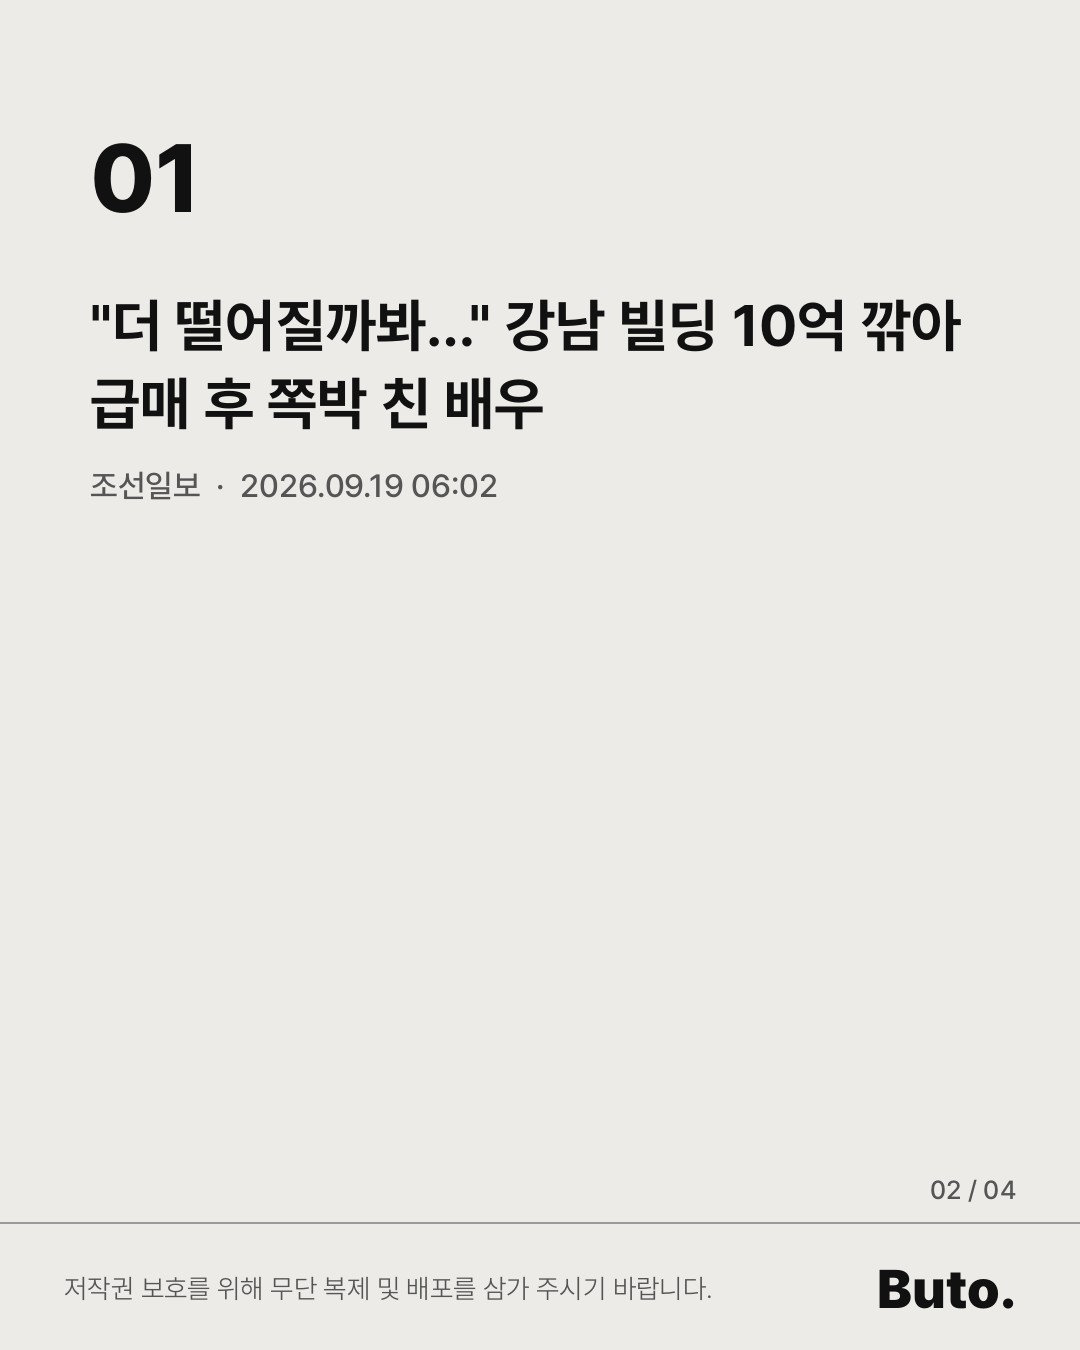
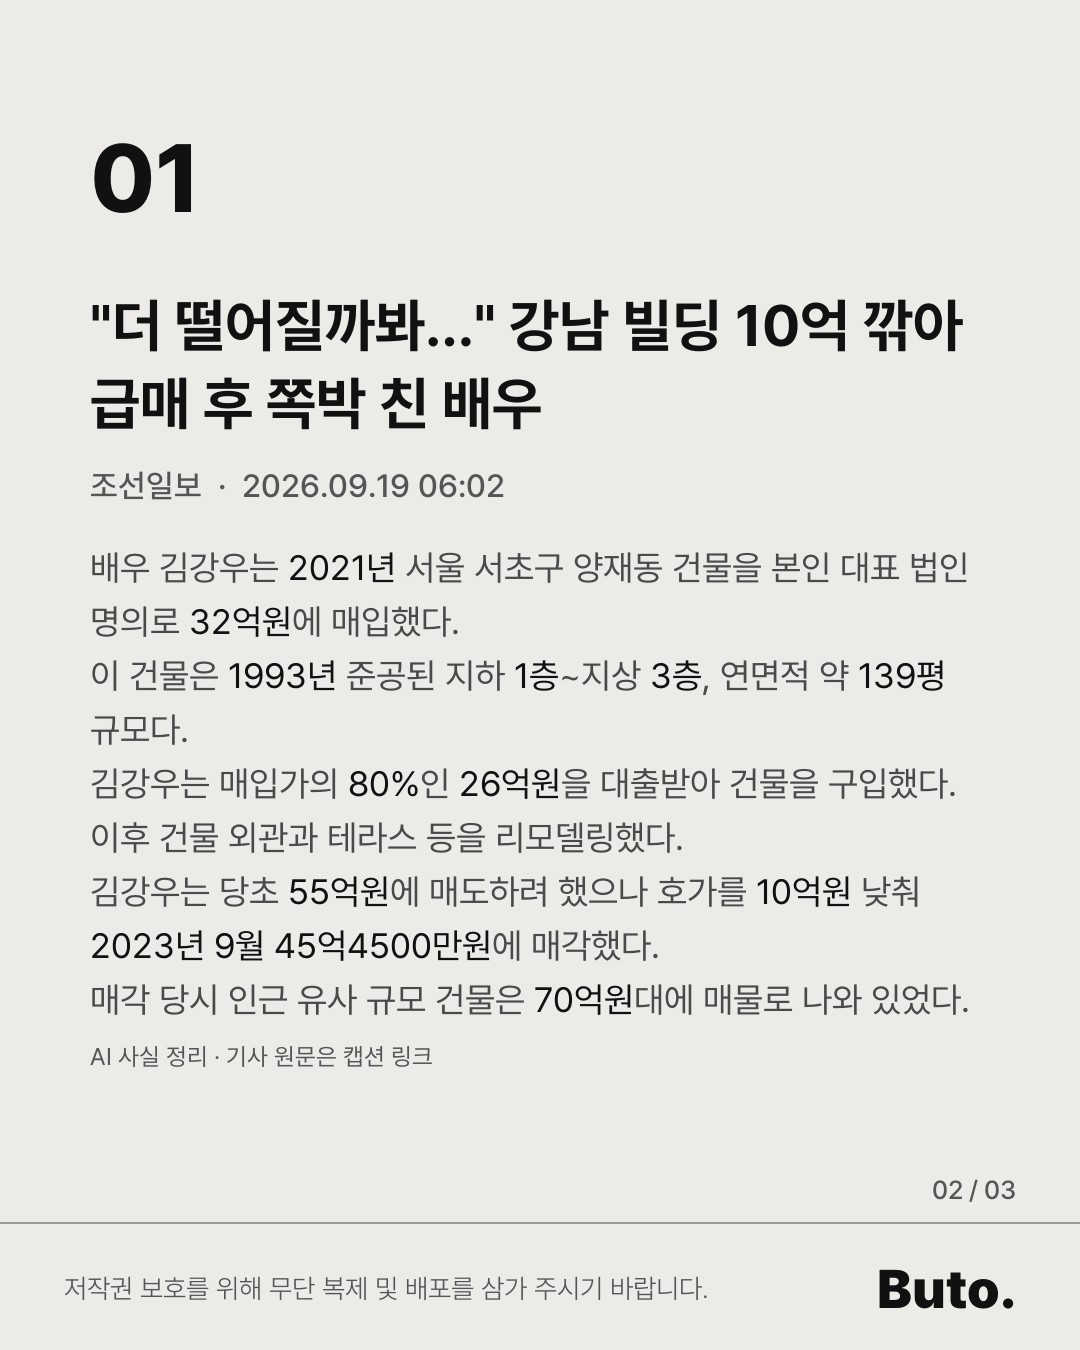
스타 부동산 AI 사실 정리(Claude 구독, 추가 비용 없음) + 한도 오탐 수정
- 한도 검사는 실패한 응답에서만(정상 답 글자 검사로 잘못 멈추던 문제)
- 기사 문장 겹침 기준 25자, 비슷하면 한 번 다시 쓰기
- 범죄·사건 기사 세트 5에서 제외, 예약 작업 07:40·12:00 추가
- 자체 검사 6개 추가(85/85)

diff --git a/engine/star_summary.py b/engine/star_summary.py
@@ -1,0 +1,189 @@
+"""스타 부동산 기사 → 사실만 새 문장으로 정리(노트북의 claude CLI, 사용자 Claude 구독으로만).
+
+비용 원칙(사용자 지시 2026-09-19: 추가 비용 절대 금지):
+- API 열쇠를 쓰지 않는다. 자식 프로세스 환경에서 ANTHROPIC_API_KEY 등을 지운다.
+- 실행 전 확인: `claude auth status` 가 claude.ai 구독 로그인이고, ~/.claude.json 의
+  hasExtraUsageEnabled(한도 초과 시 유료 추가 사용)가 꺼져 있을 때만 동작. 아니면 멈추고 알린다.
+- 구독 사용 한도에 걸리면 그날은 멈춘다(재시도 없음).
+
+저작권 원칙: 기사 문장을 옮기지 않는다. 사실(누가·어디·얼마·언제)만 새 문장으로.
+검사: ① 기사와 16자 이상 연속으로 같은 부분이 있으면 버림 ② 기사에 없는 숫자가 있으면 버림.
+"""
+from __future__ import annotations
+
+import json
+import os
+import re
+import subprocess
+
+import httpx
+from bs4 import BeautifulSoup
+
+from .common import USER_AGENT, log, squash
+
+ARTICLE_SELECTORS = ["[itemprop=articleBody]", "#articleBody", "#article-view-content-div", "#newsct_article",
+                     "#dic_area", ".article_body", ".article-body", "#articletxt", ".news_cnt_detail_wrap",
+                     "#article_body", ".view_con", "article"]
+MAX_CALLS_PER_RUN = 8
+STRIP_ENV = ("ANTHROPIC_API_KEY", "ANTHROPIC_AUTH_TOKEN", "CLAUDE_CODE_USE_BEDROCK", "CLAUDE_CODE_USE_VERTEX")
+
+
+class Stop(RuntimeError):
+    """오늘은 AI 정리를 더 하지 않음(비용·한도 이유). 사용자에게 알린다."""
+
+
+def _env() -> dict:
+    env = dict(os.environ)
+    for k in STRIP_ENV:
+        env.pop(k, None)
+    env["PYTHONIOENCODING"] = "utf-8"
+    return env
+
+
+def cost_guard() -> None:
+    """구독 로그인·추가 과금 꺼짐을 확인. 문제면 Stop."""
+    try:
+        r = subprocess.run("claude auth status", shell=True, capture_output=True, text=True,
+                           encoding="utf-8", env=_env(), timeout=60)
+        st = json.loads(r.stdout or "{}")
+    except Exception as e:
+        raise Stop(f"claude 로그인 상태를 확인하지 못했어요({type(e).__name__})")
+    if not st.get("loggedIn") or st.get("authMethod") != "claude.ai":
+        raise Stop("claude 가 Claude 구독(claude.ai)으로 로그인돼 있지 않아요 — 요금이 생길 수 있어 멈췄어요")
+    try:
+        cfg = json.load(open(os.path.expanduser("~/.claude.json"), encoding="utf-8"))
+        oa = cfg.get("oauthAccount") or {}
+        if oa.get("hasExtraUsageEnabled"):
+            raise Stop("Claude 구독에 '추가 사용(유료)'이 켜져 있어 멈췄어요 — 한도를 넘으면 요금이 나갈 수 있어요")
+        if cfg.get("primaryApiKey"):
+            raise Stop("claude 에 API 열쇠가 저장돼 있어 멈췄어요 — 쓴 만큼 요금이 나갈 수 있어요")
+    except Stop:
+        raise
+    except Exception:
+        raise Stop("claude 설정 파일을 확인하지 못해 멈췄어요")
+
+
+def article_text(url: str) -> str:
+    """기사 페이지에서 본문 글자만(요약 재료로만 쓰고 카드·캡션에는 넣지 않음)."""
+    r = httpx.get(url, headers={"User-Agent": USER_AGENT}, timeout=25, follow_redirects=True)
+    r.raise_for_status()
+    s = BeautifulSoup(r.text, "html.parser")
+    for tag in s.select("script, style, figure, figcaption, iframe, .reporter, .copyright"):
+        tag.decompose()
+    best = ""
+    for sel in ARTICLE_SELECTORS:
+        el = s.select_one(sel)
+        if el:
+            t = re.sub(r"\s+", " ", el.get_text(" ", strip=True))
+            if len(t) > len(best):
+                best = t
+        if len(best) > 400:
+            break
+    if len(best) < 200:
+        ps = " ".join(p.get_text(" ", strip=True) for p in s.select("p"))
+        best = re.sub(r"\s+", " ", ps)
+    return best[:6000]
+
+
+PROMPT = """너는 부동산 뉴스 카드의 사실 정리 담당이다. 아래 기사에서 **사실만** 뽑아 한국어 기사체 문장 4~7개로 새로 써라.
+규칙:
+- 기사 문장을 그대로 옮기지 말고 새 문장으로 쓴다(8어절 이상 똑같이 쓰지 말 것).
+- 누가(실명은 기사에 나온 그대로), 어디(구·동·건물 종류), 얼마(금액), 언제(연·월), 무엇을(매입/매각/보유) 중심.
+- 기사에 없는 숫자·추측·평가·감정 표현 금지. 시세차익 등 계산하지 말고 기사에 있는 숫자만.
+- 연예인 사생활·가족 이야기는 넣지 말고 부동산 거래 사실만.
+- 한 문장은 60자 안쪽. "~했다." "~이다." 체.
+출력은 JSON 한 줄만: {"lines": ["문장1", "문장2", ...]}
+
+기사 제목: {title}
+기사 본문:
+{body}
+"""
+
+
+def _run_claude(prompt: str) -> str:
+    r = subprocess.run("claude -p --output-format json --tools \"\" --no-session-persistence",
+                       input=prompt, shell=True, capture_output=True, text=True, encoding="utf-8",
+                       env=_env(), timeout=240)
+    LIMIT_WORDS = ("usage limit", "rate limit", "limit reached", "5-hour limit", "weekly limit", "credit", "billing")
+    try:
+        body = json.loads(r.stdout or "")
+    except ValueError:
+        body = None
+    if body is None or r.returncode != 0 or body.get("is_error"):
+        # 실패했을 때만 이유를 본다(정상 답의 글자는 검사하지 않음 - 잘못 멈추는 것 방지)
+        why = ((r.stderr or "") + " " + (str(body.get("result", "")) if body else (r.stdout or ""))).lower()
+        if any(w in why for w in LIMIT_WORDS):
+            raise Stop("Claude 구독 사용량 한도(또는 결제 관련 안내)에 걸려 오늘 AI 정리는 멈췄어요")
+        if body is None:
+            raise RuntimeError("claude 응답을 읽지 못했어요")
+        raise RuntimeError(f"claude 오류: {str(body.get('result', ''))[:120]}")
+    return str(body.get("result", ""))
+
+
+def _numbers(s: str) -> set[str]:
+    return {re.sub(r"[,\s]", "", n) for n in re.findall(r"\d[\d,.]*", s)}
+
+
+OVERLAP = 25
+
+
+def check(lines: list[str], article: str) -> str | None:
+    """문제 있으면 이유, 없으면 None."""
+    if not (3 <= len(lines) <= 8):
+        return "문장 수가 맞지 않음"
+    src = squash(article)
+    for ln in lines:
+        s = squash(ln)
+        # 이름·숫자가 들어간 사실 표현은 짧게 겹칠 수 있음. 25자 이상 똑같으면 기사 문장 복사로 본다
+        for i in range(0, max(0, len(s) - 24)):
+            if s[i:i + OVERLAP] in src:
+                return "기사 문장과 너무 비슷함"
+    art_nums = _numbers(article)
+    for ln in lines:
+        for n in _numbers(ln):
+            if n and n not in art_nums and n.rstrip(".") not in art_nums:
+                return f"기사에 없는 숫자({n})"
+    return None
+
+
+def summarize(item: dict) -> list[str]:
+    body = article_text(item["link"])
+    if len(body) < 150:
+        raise RuntimeError("기사 본문을 읽지 못함")
+    prompt = PROMPT.replace("{title}", item["title"]).replace("{body}", body)
+    why = None
+    for attempt in range(2):                      # 기사 문장과 비슷하면 한 번만 다시 쓰게 함
+        if attempt:
+            prompt += ("\n\n[다시 쓰기] 앞의 답이 기사 문장을 너무 많이 그대로 썼습니다. "
+                       "사실(이름·날짜·금액)은 그대로 두고 문장 표현은 모두 새로 바꿔 쓰세요.")
+        out = _run_claude(prompt)
+        m = re.search(r"\{.*\}", out, re.S)
+        lines = json.loads(m.group(0)).get("lines", []) if m else []
+        lines = [re.sub(r"\s+", " ", ln).strip() for ln in lines if str(ln).strip()]
+        why = check(lines, body)
+        if not why:
+            return lines
+        if "비슷" not in why:
+            break
+    raise RuntimeError(why)
+
+
+def fill(items: list[dict]) -> tuple[list[dict], list[str]]:
+    """아직 정리 안 된 기사에 summary 채우기. 반환: (새 목록, 알림 문장들)."""
+    cost_guard()                                   # 비용 조건이 안 맞으면 Stop
+    notes, calls = [], 0
+    out = []
+    for a in items:
+        a = dict(a)
+        if not a.get("summary") and calls < MAX_CALLS_PER_RUN:
+            calls += 1
+            try:
+                a["summary"] = summarize(a)
+                a["summary_note"] = "AI 사실 정리"
+            except Stop:
+                raise
+            except Exception as e:
+                notes.append(f"'{a['title'][:20]}…' 정리 안 함: {e}")
+                log(f"사실 정리 실패: {a['title'][:30]} ({e})")
+        out.append(a)
+    return out, notes

diff --git a/engine/make.py b/engine/make.py
@@ -297,11 +297,19 @@ def make_news(day: str, settings: dict) -> dict:
     return _save_run(day, "news", messages, news_excluded=excluded)
 
 
+STAR_COVER = {"tag": "스타", "lines": ("스타", "부동산 소식"), "count_label": "소식 {n}건",
+              "title": "스타 부동산 소식", "caption_title": "스타 부동산 소식", "hashtag": "연예인부동산",
+              "note": "부동산 거래 사실만 새로 정리했어요. 기사 원문은 캡션의 링크에서 확인하세요."}
+
+
 def make_star(day: str, settings: dict, cid: str, secret: str) -> list[dict]:
-    """연예인 부동산 소식(세트 5). 기사 제목·언론사·날짜·링크만."""
+    """연예인 부동산 소식(세트 5). 기사 제목·언론사·날짜·링크(+노트북이 채우는 사실 정리)."""
     h = history.load()
     if history.find_post(h, day, 5, "실제"):
         return [{"level": "warn", "text": "오늘 연예인 부동산 세트는 이미 올려서 새로 만들지 않았어요"}]
+    old = read_json(docs_dir() / day / "set-5" / "set.json", None)
+    if old and any(a.get("summary") for a in old.get("news_items") or []):
+        return [{"level": "ok", "text": "사실 정리가 된 스타 부동산 세트를 그대로 두었어요"}]
     try:
         items, _ = sources_news.fetch_star(cid, secret, settings, now_kst())
     except Exception as e:
@@ -311,11 +319,40 @@ def make_star(day: str, settings: dict, cid: str, secret: str) -> list[dict]:
     items = [a for a in items if a["link"] not in used]
     if not items:
         return [{"level": "warn", "text": "최근 3일 새 연예인 부동산 소식이 없어요"}]
-    cover = {"tag": "스타", "lines": ("스타", "부동산 소식"), "count_label": "소식 {n}건",
-             "title": "스타 부동산 소식", "caption_title": "스타 부동산 소식", "hashtag": "연예인부동산",
-             "note": "기사 제목과 언론사만 소개해요. 자세한 내용은 캡션의 링크에서 확인하세요."}
-    meta = build.build_news(items, day, 5, settings, kind="star", cover=cover)
+    meta = build.build_news(items, day, 5, settings, kind="star", cover=STAR_COVER)
     return [{"level": "ok", "text": f"스타 부동산 카드 {len(meta['cards'])}장을 만들었어요(기사 {len(items)}건)"}]
+
+
+def make_star_summaries(day: str, settings: dict) -> dict:
+    """노트북: 스타 부동산 기사에 사실 정리(claude 구독, 추가 비용 없음)를 채우고 카드를 다시 그린다."""
+    from . import star_summary
+    messages: list[dict] = []
+    meta = read_json(docs_dir() / day / "set-5" / "set.json", None)
+    if not meta or not meta.get("news_items"):
+        return _save_run(day, "star", messages)
+    if history.find_post(history.load(), day, 5, "실제"):
+        return _save_run(day, "star", messages)
+    from .sources_news import STAR_EXCLUDE
+    kept = [a for a in meta["news_items"] if not any(w in a.get("title", "") for w in STAR_EXCLUDE)]
+    if len(kept) != len(meta["news_items"]):
+        messages.append({"level": "warn", "text": f"범죄·사건 기사 {len(meta['news_items']) - len(kept)}건을 스타 부동산 세트에서 뺐어요"})
+        meta["news_items"] = kept
+        if not kept:
+            return _save_run(day, "star", messages)
+    todo = [a for a in meta["news_items"] if not a.get("summary")]
+    if not todo:
+        return _save_run(day, "star", messages)
+    try:
+        items, notes = star_summary.fill(meta["news_items"])
+    except star_summary.Stop as e:
+        messages.append({"level": "bad", "text": f"AI 사실 정리를 멈췄어요: {e} (추가 비용이 생기지 않게 하려는 조치예요)"})
+        return _save_run(day, "star", messages)
+    done = sum(1 for a in items if a.get("summary"))
+    build.build_news(items, day, 5, settings, meta.get("notes") or [], kind="star", cover=STAR_COVER)
+    messages.append({"level": "ok", "text": f"스타 부동산 기사 {done}건에 사실 정리를 넣었어요(Claude 구독 사용, 추가 비용 없음)"})
+    for n in notes:
+        messages.append({"level": "warn", "text": n})
+    return _save_run(day, "star", messages)
 
 
 def refresh_news_gov(day: str, settings: dict) -> bool:

diff --git a/scripts/laptop_daily.py b/scripts/laptop_daily.py
@@ -108,19 +108,30 @@ def main() -> int:
         log(f"GitHub에서 최신 내용을 받지 못했어요: {r.stderr.strip()[:200]}")
 
     run_file = docs_dir() / day / "run-gov.json"
+    skip_local = False
     if not a.force and not a.url and run_file.exists():
         prev = read_json(run_file, {})
         if not any(m.get("level") == "bad" for m in prev.get("messages", [])):
             log("오늘 보도자료 카드는 이미 만들었어요(건너뜀)")
-            return 0
+            skip_local = True
 
-    info = make.run(day, a.url.strip() or None, only="gov" if a.url else "local", build_pages=False)
-    for m in info["messages"]:
-        log(f"{m['level']}: {m['text']}")
+    if not skip_local:
+        info = make.run(day, a.url.strip() or None, only="gov" if a.url else "local", build_pages=False)
+        for m in info["messages"]:
+            log(f"{m['level']}: {m['text']}")
 
-    ok = push_paths([f"docs/{day}/set-1", f"docs/{day}/set-3", f"docs/{day}/set-4",
+    # 스타 부동산 사실 정리(GitHub 이 만든 세트 5 에, Claude 구독으로, 추가 비용 없이)
+    if not a.url:
+        from engine.common import read_json as _rj
+        settings = _rj(ROOT / "data" / "settings.json", {})
+        star = make.make_star_summaries(day, settings)
+        for m in star.get("messages", []):
+            log(f"{m['level']}: {m['text']}")
+
+    ok = push_paths([f"docs/{day}/set-1", f"docs/{day}/set-3", f"docs/{day}/set-4", f"docs/{day}/set-5",
                      f"docs/{day}/run-gov.json", f"docs/{day}/run-law.json", f"docs/{day}/run-easylaw.json",
-                     f"docs/{day}/releases.json"], f"보도자료·법령·생활법령 카드 {day} (노트북)")
+                     f"docs/{day}/run-star.json", f"docs/{day}/releases.json"],
+                    f"보도자료·법령·생활법령 카드, 스타 부동산 정리 {day} (노트북)")
     if ok:
         log("GitHub에 올렸어요. 몇 분 뒤 확인 페이지에 나와요")
     return 0 if ok else 1

diff --git a/engine/cards.py b/engine/cards.py
@@ -575,7 +575,8 @@ def draw_news_item(n: int, item: dict, note: str, settings: dict, page: int, tot
     img, d = _new(c["bg"])
     d.text((MX, 120), f"{n:02d}", font=font("extrabold", 96), fill=c.get("number") or c["primary"])
     gov = item.get("gov")
-    max_title_lines = 4 if (gov or note) else 5
+    summary = item.get("summary") or []
+    max_title_lines = 3 if summary else (4 if (gov or note) else 5)
     f, lines, size = _fit_lines(item["title"], "bold", range(58, 41, -3), BODY_W, max_title_lines)
     y = 290
     for ln in lines[:max_title_lines]:
@@ -585,7 +586,27 @@ def draw_news_item(n: int, item: dict, note: str, settings: dict, page: int, tot
     tdraw(d, (MX, y), f"{item.get('press', '')}  ·  {item.get('date_label', '')}", font("medium", 32), c["sub"])
     y += 80
 
-    if gov:
+    if summary:
+        # AI 사실 정리(새로 쓴 문장). 기사 문장이 아님을 표시한다.
+        fs = font("regular", 35)
+        room = (BODY_BOTTOM - (150 if note else 0)) - y - 60
+        lines_out = []
+        for sent in summary:
+            lines_out += wrap(sent, fs, BODY_W)
+        max_l = max(3, room // 54)
+        if len(lines_out) > max_l:                      # 넘치면 뒤 문장부터 뺀다
+            keep = list(summary)
+            while len(keep) > 1 and sum(len(wrap(s_, fs, BODY_W)) for s_ in keep) > max_l:
+                keep = keep[:-1]
+            lines_out = [ln for s_ in keep for ln in wrap(s_, fs, BODY_W)]
+        for ln in lines_out:
+            _draw_highlighted(d, (MX, y), ln, fs, c.get("text2", c["text"]) if _buto(settings) else c["text"], c["accent"])
+            y += 54
+        tdraw(d, (MX, y + 10), f"{item.get('summary_note', 'AI 사실 정리')} · 기사 원문은 캡션 링크",
+              font("regular", 24), c["sub"])
+        y += 60
+
+    if gov and not summary:
         from .splitter import _sentences
         fg = font("regular", 34)
         label = f"정부 발표 원문 · {gov['dept']} ({gov['date_label']})"

diff --git a/engine/pages.py b/engine/pages.py
@@ -201,7 +201,8 @@ def _set_block(meta: dict, day: str, h: dict, info: dict, version: str) -> str:
 def _merged_runs(root) -> dict:
     """노트북(run-gov)·GitHub(run-news)·올리기(run-publish) 기록을 합친다."""
     merged = {"messages": [], "candidates": [], "news_excluded": [], "finished_at": "", "has_gov": False}
-    for name in ("run.json", "run-gov.json", "run-law.json", "run-easylaw.json", "run-news.json", "run-publish.json"):
+    for name in ("run.json", "run-gov.json", "run-law.json", "run-easylaw.json", "run-news.json", "run-star.json",
+                 "run-publish.json"):
         r = read_json(root / name, None)
         if not r:
             continue

diff --git a/engine/caption.py b/engine/caption.py
@@ -51,6 +51,8 @@ def news(items: list[dict], date_label: str, settings: dict, notes: list[str] | 
     lines = [f"{title or '오늘의 부동산 뉴스'} ({date_label})", ""]
     for i, a in enumerate(items, 1):
         lines.append(f"{i}. {a['title']} — {a['press']}")
+        if a.get("summary"):
+            lines.append("   " + " ".join(a["summary"]))
         if notes and i <= len(notes) and notes[i - 1]:
             lines.append(f"   💬 {notes[i - 1]}")
         lines.append(f"   {a['link']}")

diff --git a/README.md b/README.md
@@ -8,6 +8,7 @@
 ## 원칙
 - **정부 보도자료**: 정책브리핑(korea.kr)에서 **공공누리 제1유형**인 것만, 첨부 원문 **글자 그대로** 카드로 나눔(요약·바꿔 쓰기 없음, 표·사진 제외). 출처 표시.
 - **신문 기사**: **제목·언론사·날짜·링크만**. 기사 본문·요약문은 쓰지 않음(저작권). 같은 소식의 정부 보도자료가 있으면 그 **보도자료 원문 첫 문장(공공누리 제1유형)**을 '정부 발표 원문' 상자로 붙임(노트북이 올리는 docs/날짜/releases.json 사용).
+- **스타 부동산(세트 5)**: GitHub이 기사 제목·링크를 모으고, 노트북(07:00·07:40·12:00)이 **Claude 구독(claude CLI)** 으로 거래 사실만 새 문장으로 정리해 넣음. 기사 문장과 25자 이상 같거나 기사에 없는 숫자가 있으면 넣지 않음. 유료 API 키는 지우고 실행하고, 구독 한도·결제 관련 오류가 나면 바로 멈춤(추가 비용 0원). 범죄·사건 기사는 제외.
 - **보도시점(엠바고)** 전에는 올리기 거부. 확정 전 정부안은 "확정 아님" 표시.
 - 기본은 **연습 모드**. 실제 게시는 확인 문구 `올립니다` 를 넣어야 동작.
 - 인스타는 **공식 API만** 사용(아이디·비밀번호 자동 로그인 없음).
